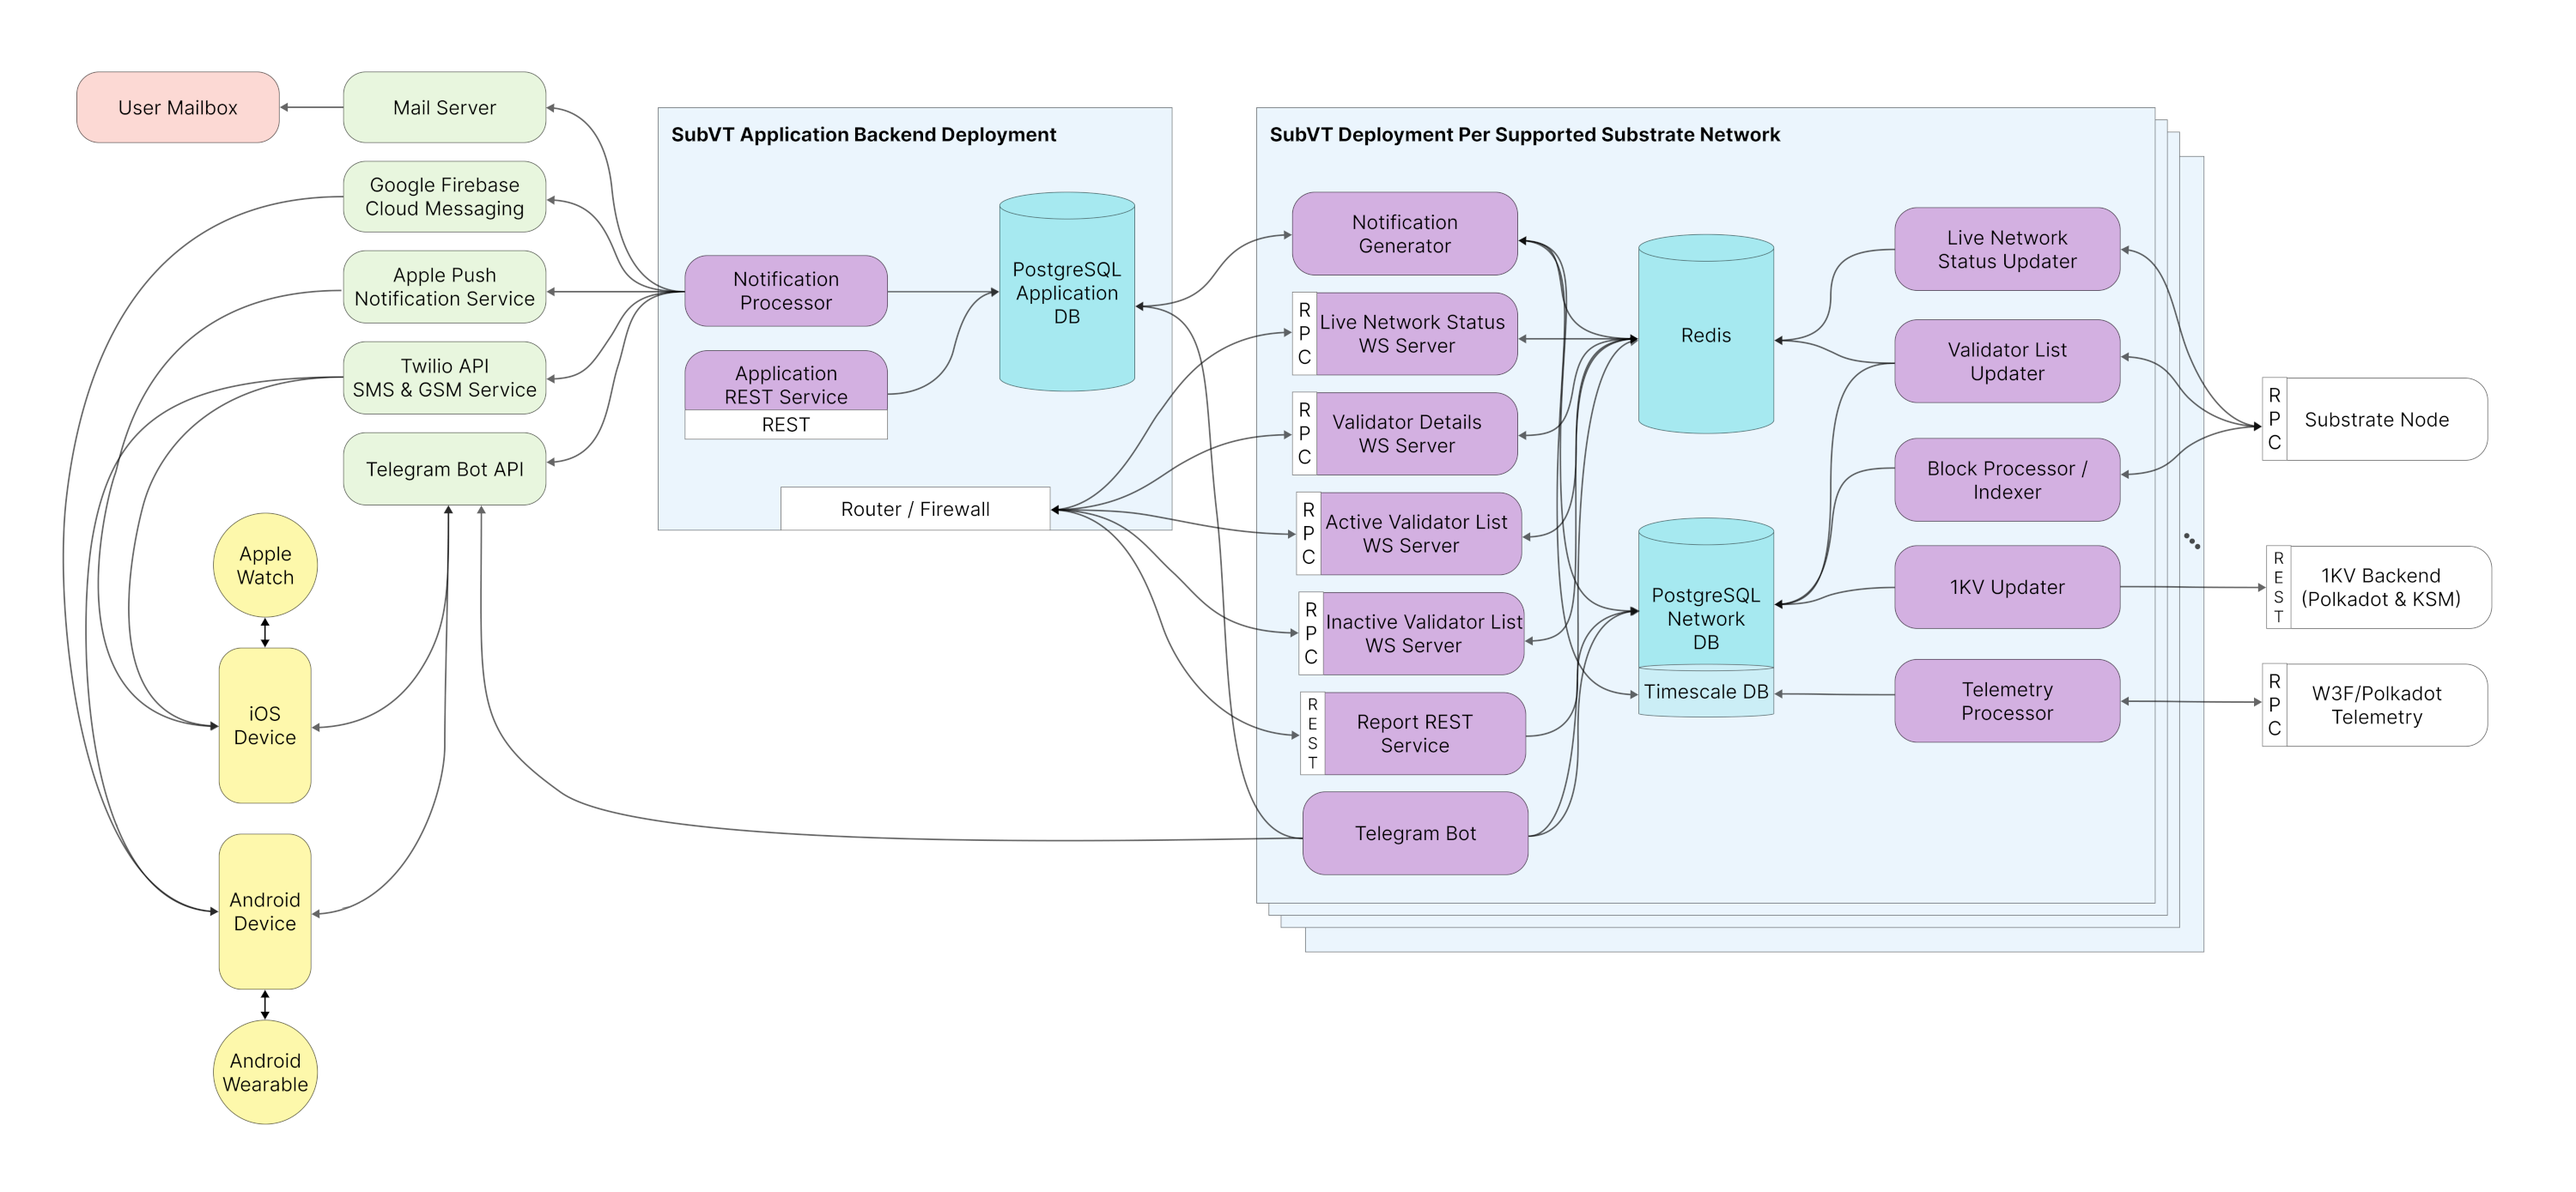
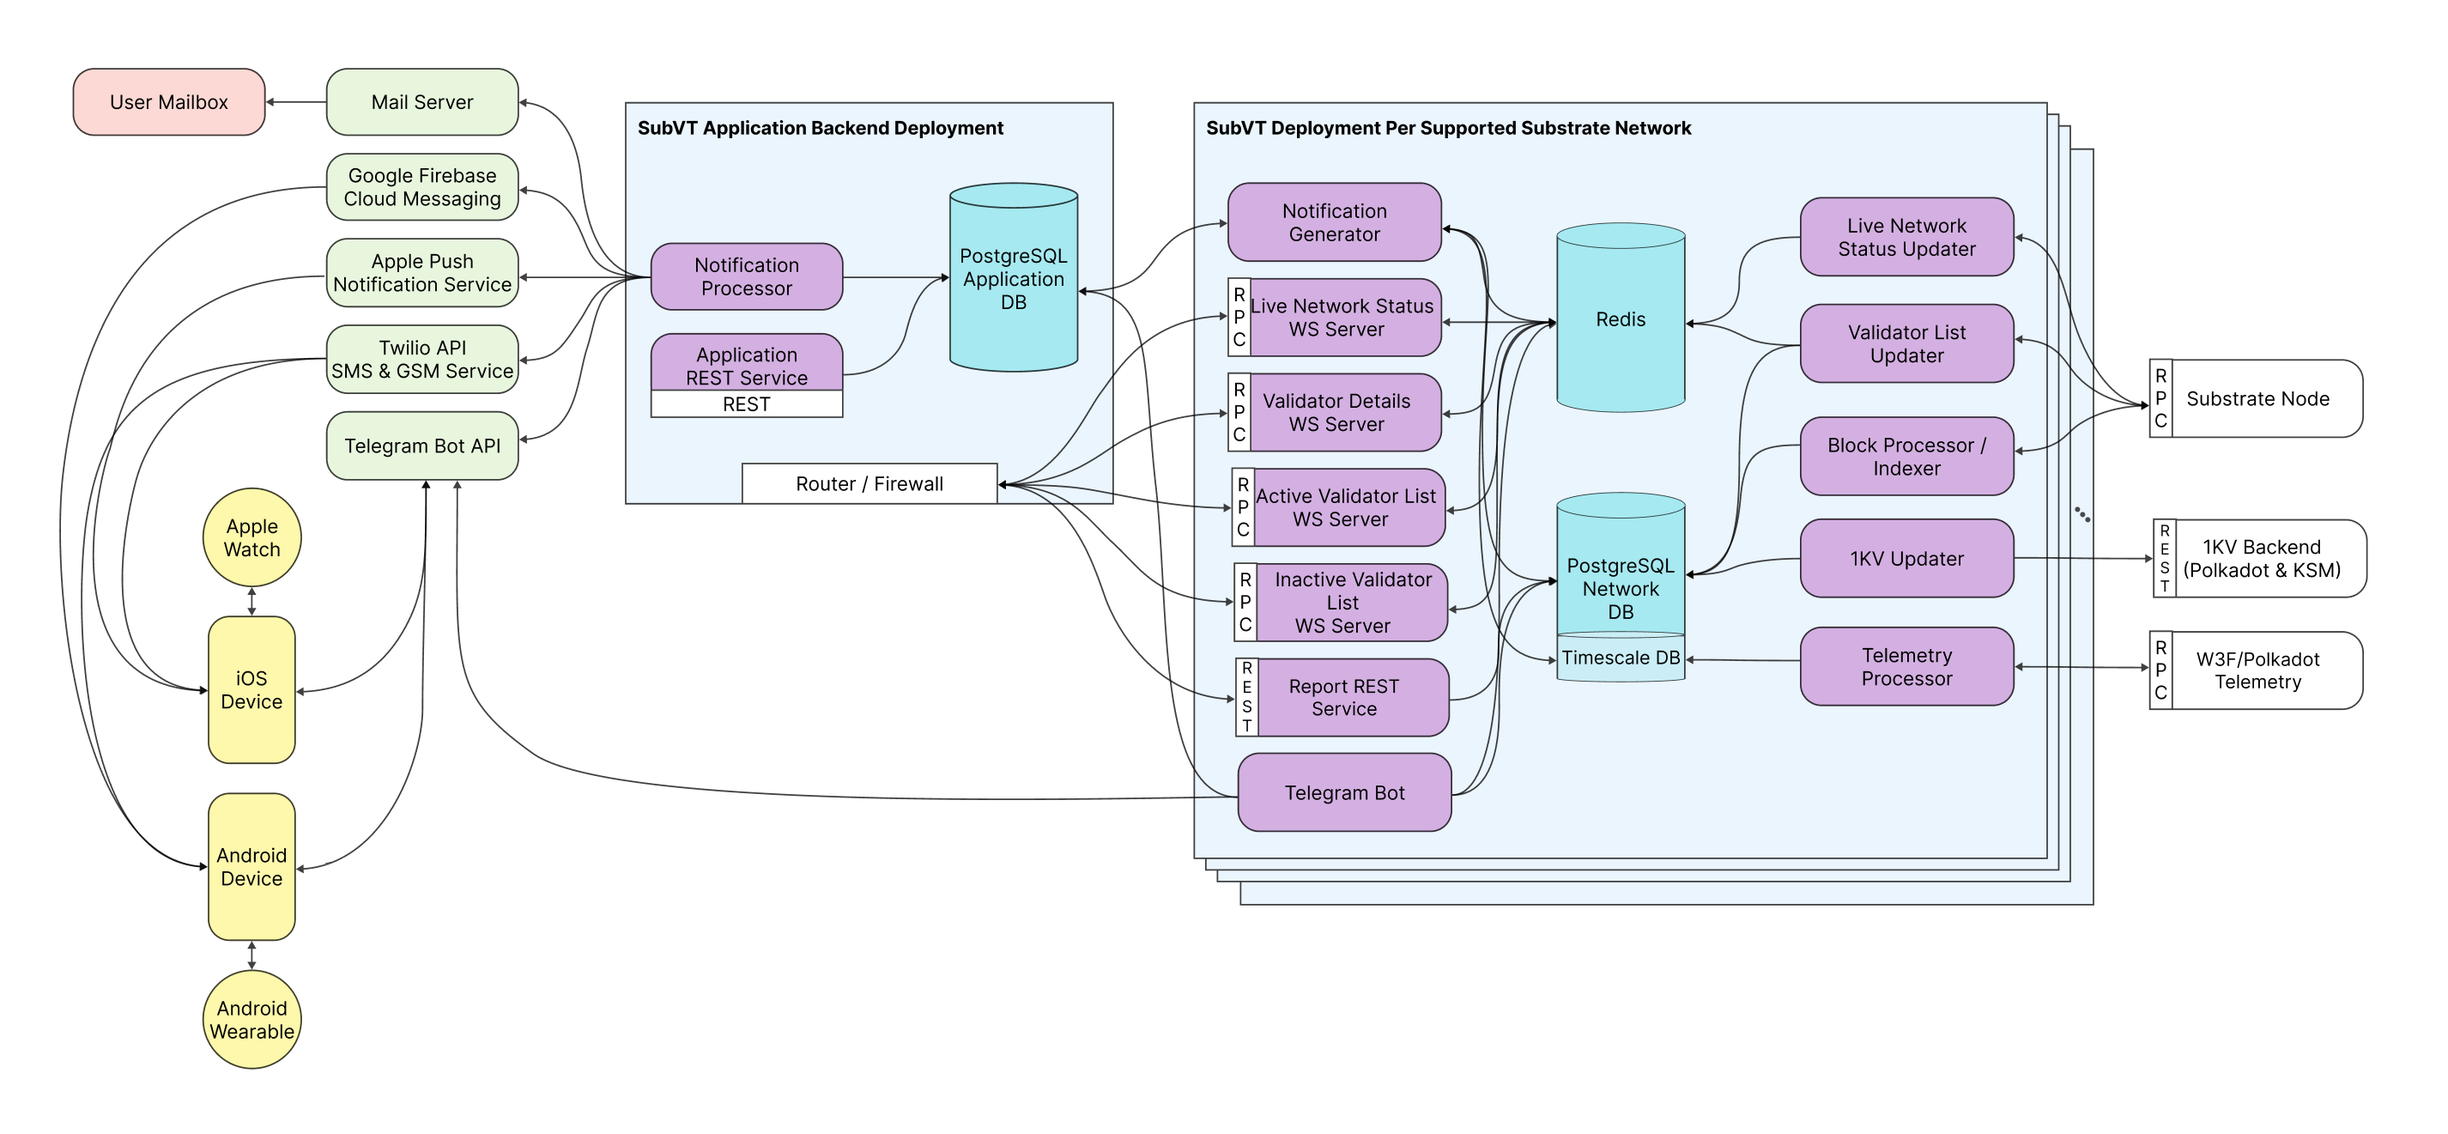
Update system architecture diagram image files and the document.

diff --git a/document/software/01-subvt_system_architecture.md b/document/software/01-subvt_system_architecture.md
@@ -1,8 +1,8 @@
 # SubVT System Architecture
 
 <p align="center">
-  <a href="https://raw.githubusercontent.com/helikon-labs/subvt/main/document/software/image/01-subvt_system_architecture_large.png" target="_blank">
-    <img src="./image/01-subvt_system_architecture_small.png"/>
+  <a href="https://raw.githubusercontent.com/helikon-labs/subvt/main/document/software/image/01-subvt_system_architecture_large.jpg" target="_blank">
+    <img src="./image/01-subvt_system_architecture_small.jpg"/>
   </a>
   <br/>
   <i>
@@ -112,6 +112,9 @@
     - `DELETE` one of the user's notification rules.
     - `POST` new validator for the user (i.e. bookmark).
     - And many more.
+
+### 12. Telegram Bot ([code](https://github.com/helikon-labs/subvt-backend/tree/main/subvt-telegram-bot))
+A super-powered upgrade for the now-deprecated [1KV Bot](https://github.com/helikon-labs/polkadot-kusama-1kv-telegram-bot). Please view the bot [readme](https://github.com/helikon-labs/subvt-backend/blob/main/subvt-telegram-bot/README.md) for the live bot links and complete list of commands and notifications.
 
 ## Feasibility and Implementation
 Current model builds on top of the [initial proposal](https://docs.google.com/document/d/1mCD1lRoEwbV3Xp5N-HzEKA0KROCmNkMFInLGd4nAz-k/edit?usp=sharing),
